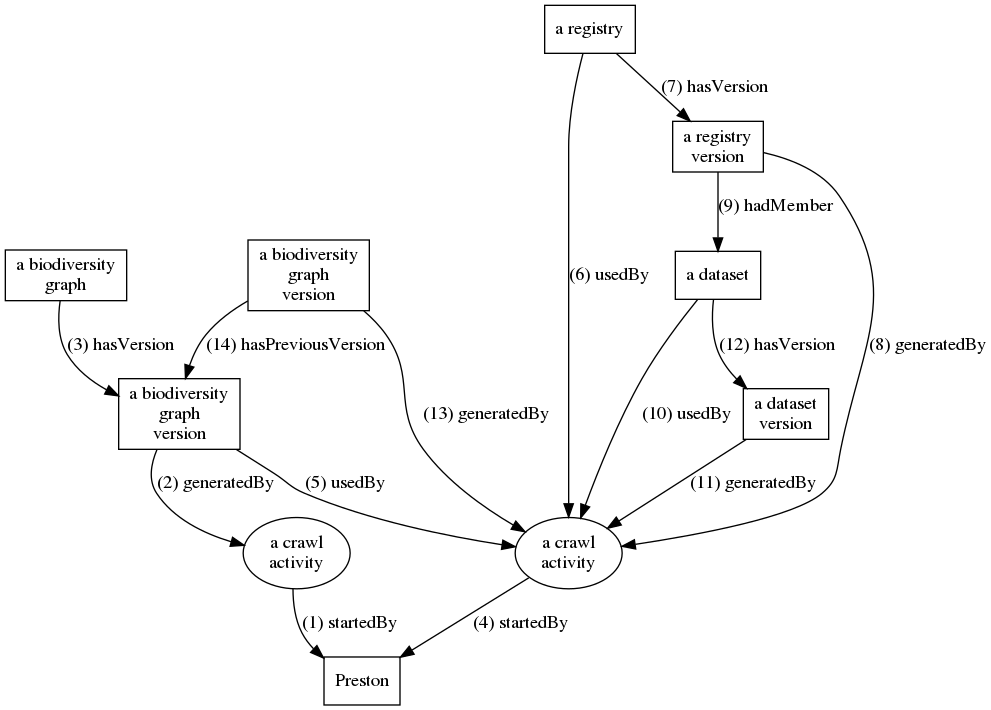
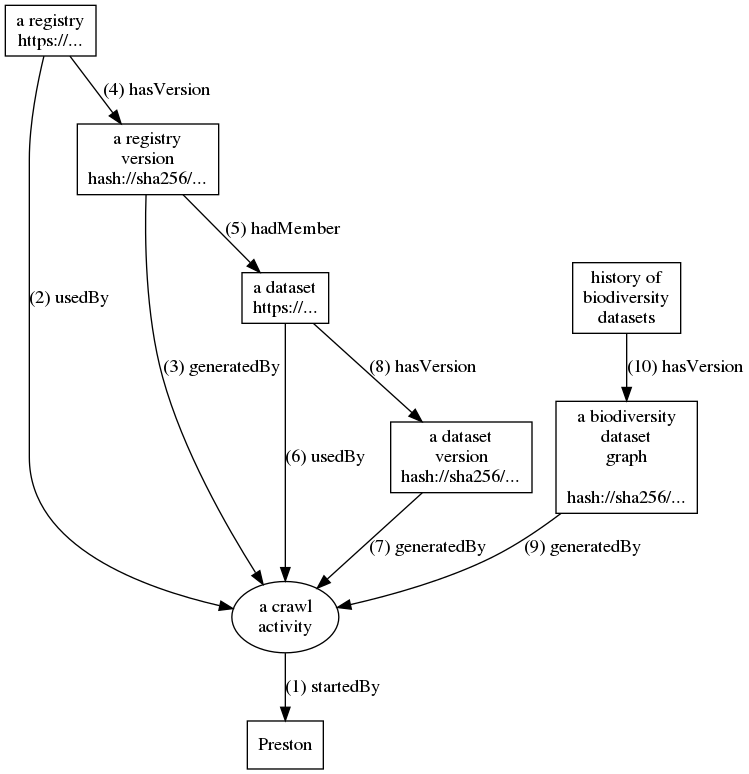
simplify process diagram; update readme

diff --git a/README.md b/README.md
@@ -4,13 +4,17 @@
 
  *Named after [Frank W. Preston (1896-1989)](https://en.wikipedia.org/wiki/Frank_W._Preston) and the Prestonian shortfall, one of the "[Seven Shortfalls that Beset Large-Scale Knowledge of Biodiversity](https://doi.org/10.1146/annurev-ecolsys-112414-054400)" as described by [Hortal et al. 2015](https://doi.org/10.1146/annurev-ecolsys-112414-054400). 
 
+[`usage`](#usage) / [`install`](#install) / [`use cases`](#use-cases) / [`architecture`](./architecture.md)
+
 Preston is an open-source software system that keeps track of biodiversity datasets. Scientists can use Preston to keep a local, uniquely identifiable, versioned copy of all or parts of [GBIF](https://gbif.org)-indexed datasets. Institutions can use Preston to check that their collections are indexed and available through [iDigBio](https://idigbio.org). Biodiversity informatics researchers can use Preston to perform metadata analysis. And finally, archivists can distribute archives across the world. 
  
 Preston uses the [PROV](https://www.w3.org/TR/prov-o/) and [PAV](https://pav-ontology.github.io/pav/) ontologies to model the actors, activities and entities involved in discovery, access and change control of digital biodiversity datasets. In addition, Preston uses [content-addressed storage](https://bentrask.com/?q=hash://sha256/98493caa8b37eaa26343bbf73f232597a3ccda20498563327a4c3713821df892) and [SHA256 hashes](https://en.wikipedia.org/wiki/SHA-2) to uniquely identify and store content. A [hexastore](https://people.csail.mit.edu/tdanford/6830papers/weiss-hexastore.pdf)-like index is used to navigate a local graph of biodiversity datasets. Preston is designed to work offline and can be cloned, copied and moved across storage media with existing tools and infrastructures like rsync, dropbox, the internet archive or thumbdrives. In addition to versioned copies of uniquely identifiable original [ABCD](http://tdwg.github.io/abcd/ABCD_v206.html)-A, [DWC](http://rs.tdwg.org/dwc/)-A and [EML](https://www.researchgate.net/profile/Oliver_Guenther/publication/228958840_EML-the_Environmental_Markup_Language/links/0046351ee4c535bf56000000.pdf?inViewer=true&disableCoverPage=true&origin=publication_detail) files, Preston also keeps track of the [GBIF](https://gbif.org), [iDigBio](https://idigbio.org) and [BioCASe](http://biocasemonitor.biodiv.naturkundemuseum-berlin.de/index.php/Main_Page) registries to help retain the relationships between the institutions to keep a detailed record of provenance. 
 
-The process diagram below shows how Preston starts crawls to create versioned copies registries and datasets. The statements used to describe this process are then used to generate an update version of a biodiversity dataset graph. The numbers indicate the sequence of events. Click on the image to enlarge. 
+The process diagram below shows how Preston starts crawls to download copies of biodiversity registries and their datasets. A detailed log of the crawl activities are recorded to describe what data was discovered and how. This activity log is referred to as the history of a biodiversity dataset graph. The numbers indicate the sequence of events. Click on the image to enlarge. 
 
 <img src="https://raw.githubusercontent.com/bio-guoda/preston/master/process.png" width="50%">
+
+The figure above shows how Preston starts (1) a crawl activity. This crawl activity then accesses (2) a registry to save (3,4) a snapshot (or version) of it. Now, datasets referenced in this registry version are accessed, downloaded and saved (6,7,8). After all this, the crawl activity saves the log that contains its activities (1-8) as a version of a biodiversity dataset (9, 10). This log can be used to retrace the steps of the crawl activity to reconstruct the relationships between the registries, datasets as well as their respective content signatures or content hashes. Actual instances of crawl activities contains multiple registries (e.g., GBIF, iDigBio) and potentially thousands of datasets.   
 
 If you haven't yet tried Preston, please see the [Installation](#install) section. Please also see [a template repository](https://github.com/bio-guoda/preston-amazon) and [use cases](#use-cases) for examples. If you are interested in learning how Preston works, please visit the [architecture](./architecture.md) page.
 
